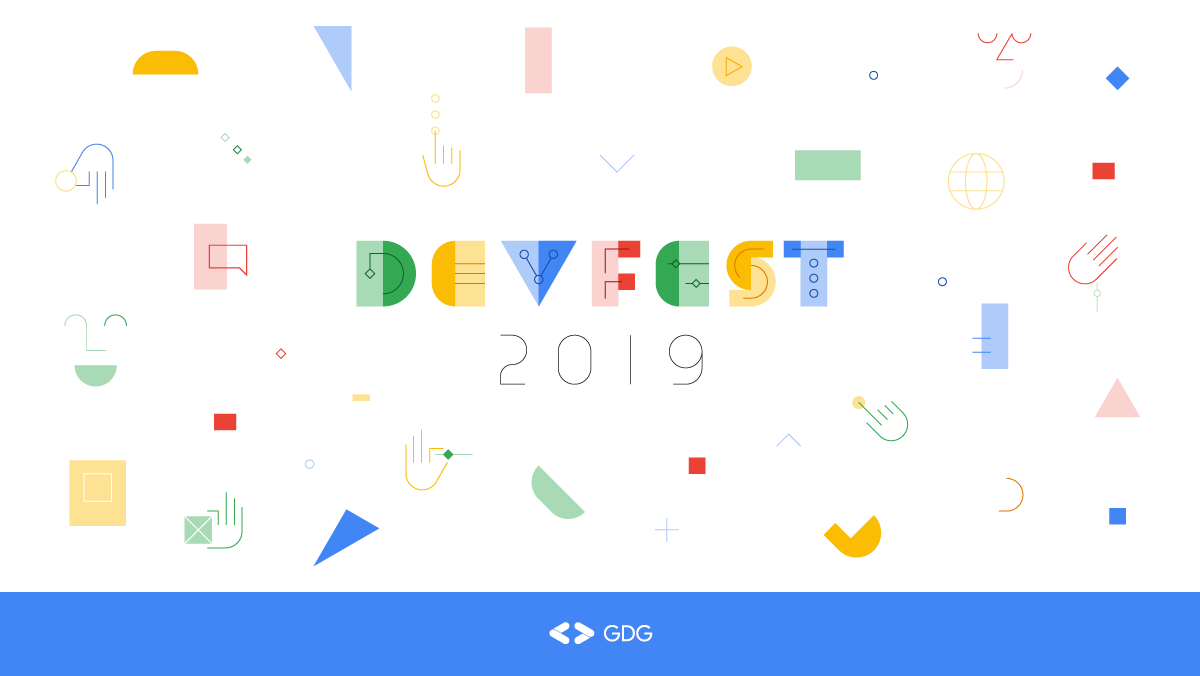
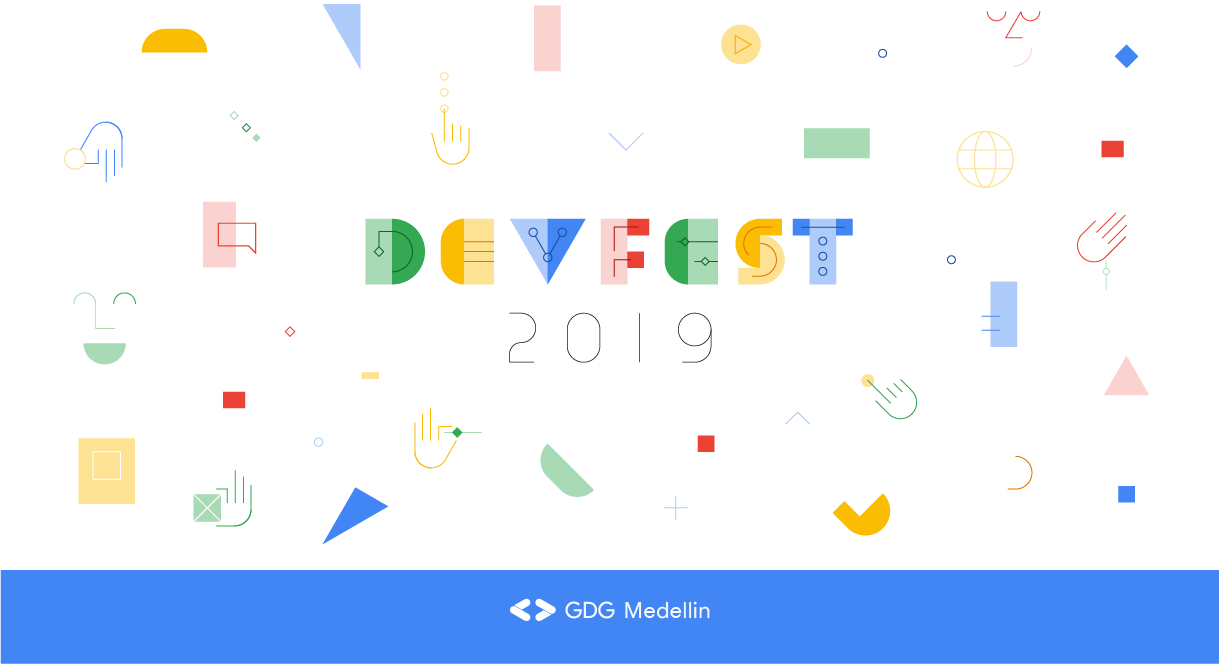
Devfeat(*) DevFest branding added

diff --git a/src/app/home/home.component.html b/src/app/home/home.component.html
@@ -1,12 +1,19 @@
 <div class="home-component">
     <app-section-topo></app-section-topo>
-    <!--
-        <call-for-proposals></call-for-proposals>
-    -->
-
+    
+    <div class="about">
+        <h1><strong>GDG DevFest 2019</strong></h1>
+        <h3>Be a Hero. Be a GDG!</h3>
+        <p>The biggest Google tech conference in Medellin carefully crafted for you by GDG community! All about Android, Angular, Web and Cloud from the world experts</p>
+        <!-- <p>GDG DevFest Medellín, brinda a la comunidad una serie de charlas y mucho networking para que aprendas sobre las últimas tecnologías de Google.</p> -->
+    </div>
+   
     <app-section-guests></app-section-guests>
-    <app-speakers></app-speakers>
-    <app-schedule></app-schedule>
+
+    <call-for-proposals></call-for-proposals>
+
+    <!-- <app-speakers></app-speakers> -->
+    <!-- <app-schedule></app-schedule> -->
 
     <app-section-mapa></app-section-mapa>
 
@@ -14,13 +21,25 @@
 
     <app-section-matriz></app-section-matriz>
 
-    <p class="poweredby">
-        Fork us:
-        <a
-            class="c-sushi"
-            href="https://github.com/carlosrojaso/angular-week"
-            target="_blank"
-            >WebApp</a
-        >
-    </p>
+    <div class="poweredby">
+        <a href="https://www.meetup.com/GDG-Medellin/" target="_blank">GDG Medellín</a>
+        <ul class="social">
+            <li>
+                <a href="https://twitter.com/gdgmed/" target="_blank" title="GDG Medellin">
+                        <img class="person-arrow" src="/assets/img/social/twitter.svg" />
+                </a>
+            </li>
+            <li>
+                <a href="https://www.instagram.com/gdgmed/" target="_blank" title="GDG Medellin">
+                    <img class="person-arrow" src="/assets/img/social/instagram.svg" />
+                </a>
+            </li>
+            <li>
+                <a href="https://www.facebook.com/gdgmedellin/" target="_blank" title="GDG Medellin">
+                    <img class="person-arrow" src="/assets/img/social/facebook.svg" />
+                </a>
+            </li>
+            
+        </ul>
+    </div>
 </div>

diff --git a/src/app/home/section-apoio/section-apoio.component.html b/src/app/home/section-apoio/section-apoio.component.html
@@ -20,6 +20,15 @@
                     ><img src="/assets/img/yuxi.png" alt="Yuxi Global"
                 /></a>
             </div>
+            <div>
+                <a
+                    class="globant-logo"
+                    href="https://www.globant.com/"
+                    target="_blank"
+                    title="Globant"
+                    ><img src="/assets/img/globant-logo.png" alt="Globant"
+                /></a>
+            </div>
         </div>
     </div>
     <div class="section-wrapper">
@@ -36,14 +45,25 @@
         <div class="section-content">
             <div class="jw-communities">
                 <a
-                    href="https://www.meetup.com/Angular-Medellin/"
+                    href="https://www.meetup.com/GDG-Medellin/"
                     target="_blank"
-                    title="Angular Medellin"
+                    title="GDGMedellin.png"
                 >
                     <img
                         class="sponsorImg"
-                        src="/assets/img/communities/angularmed.jpeg"
-                        alt="Angular Medellin"
+                        src="/assets/img/communities/GDGMedellin.png"
+                        alt="GDGMedellin.png"
+                    />
+                </a>
+                <a
+                    href="https://www.meetup.com/GDG-Medellin/"
+                    target="_blank"
+                    title="Women Techmakers"
+                >
+                    <img
+                        class="sponsorImg"
+                        src="/assets/img/communities/wtm.png"
+                        alt="Women Techmakers Medellin"
                     />
                 </a>
             </div>

diff --git a/src/index.html b/src/index.html
@@ -7,13 +7,13 @@
         <base href="/" />
 
         <meta property="og:title" content="DevFest Medellin 2019">
-        <meta property="og:description" content="A agreat event to learn and share knowledge about node.js in Medellín.">
-        <meta property="og:image" content="https://nodeweek.org/assets/img/node-week-logo.svg">
-        <meta property="og:url" content="https://nodeweek.org">
+        <meta property="og:description" content="A agreat event to learn and share knowledge about Google technologies in Medellín.">
+        <meta property="og:image" content="https://nodeweek.org/assets/img/gdg_med_logo.svg">
+        <meta property="og:url" content="https://devfestmed.dev">
 
         <meta property="twitter:title" content="DevFest Medellin 2019">
-        <meta property="twitter:description" content="A agreat event to learn and share knowledge about node.js in Medellín.">
-        <meta property="twitter:image" content="https://nodeweek.org/assets/img/node-week-logo.svg">
+        <meta property="twitter:description" content="A agreat event to learn and share knowledge about Google technologies in Medellín.">
+        <meta property="twitter:image" content="https://nodeweek.org/assets/img/gdg_med_logo.svg">
         <meta property="twitter:card" content="summary_large_image">
 
         <meta name="viewport" content="width=device-width, initial-scale=1" />
@@ -37,7 +37,7 @@
     <body>
         <app-root>
             <div class="loadapp">
-                <img src="/assets/img/lfdev-logo.png" alt="Cargando JSWeek" />
+                <img src="/assets/img/GDGMedellin.png" alt="Cargando GDG Medellin" />
             </div>
         </app-root>
     </body>

diff --git a/src/app/home/section-topo/section-topo.component.html b/src/app/home/section-topo/section-topo.component.html
@@ -25,7 +25,7 @@
                                 href="https://www.meetup.com/GDG-Medellin/events/262641229/"
                                 target="_blank"
                                 appLocalize
-                                >Register</a
+                                >Registro</a
                             >
                         </div>
                     </div>
@@ -33,7 +33,7 @@
                     <div class="main-details-conduct">
                         <a
                             class="conduct-link"
-                            href="http://jsconf.com/codeofconduct.html"
+                            href="https://developers.google.com/community/gdg/organizers/resources/#code-of-conduct"
                             target="_blank"
                             appLocalize
                             >Código de conducta</a

diff --git a/src/app/home/section-guests/section-guests.component.scss b/src/app/home/section-guests/section-guests.component.scss
@@ -27,7 +27,7 @@
   }
 
   & .guests-label {
-    color: 4285F4;
+    color: #4285F4;
     font-family: Lato;
     font-size: 2.3em;
     font-weight: 900;
@@ -108,8 +108,19 @@
       font-size: 2.4em;
       margin-bottom: 0.5em
     }
-    & .person-company {
+    & .person-title {
       font-size: 1.6em;
+    }
+    & .person-social {
+      font-size: 1.4em;
+      .social-link {
+        display: flex;
+        flex-direction: row;
+        .social-img {
+          width: 3em;
+          height: 3em;
+        }
+      }
     }
   }
 }
@@ -131,7 +142,7 @@
       width: 10px;
       transition: all .5s ;
       &--active {
-        background: 4285F4;
+        background: #4285F4;
         height: 100%;
         width: 15px;
       }

diff --git a/src/app/home/section-topo/section-topo.component.scss b/src/app/home/section-topo/section-topo.component.scss
@@ -18,7 +18,7 @@ $turtle-green: #4285F4;
         flex: 10;
         display: flex;
         background-image:
-                    linear-gradient(rgba(63, 66, 90, 0.85),  rgba(63, 66, 90, 0.85)),
+                    linear-gradient(rgba(63, 66, 90, 0.75),  rgba(63, 66, 90, 0.75)),
                     url(/assets/img/back-top.png);
         background-size: cover;
         background-repeat: no-repeat;
@@ -116,7 +116,7 @@ $turtle-green: #4285F4;
           &-conduct {
             flex: .9;
             .conduct-link {
-              color: #4285F4;
+              color: white;
               font-size: 2.8em;
               text-decoration: underline;
             }

diff --git a/src/app/home/section-matriz/section-matriz.component.html b/src/app/home/section-matriz/section-matriz.component.html
@@ -1,16 +1,15 @@
 <div
     class="jw-footer"
-    [style.background-image]="trust('../../../assets/img/img-footer.jpg')"
 >
     <h4 class="jw-footer__text" appLocalize>¡No te lo pierdas!</h4>
-    <!--
-        <a
-            class="jw-btn"
-            href="https://www.eventbrite.com/e/development-week-edicion-medellin-node-js-tickets-66575784965"
-            target="_blank"
-            appLocalize
-        >
-            Registro
-        </a>
-    -->
+    
+    <a
+        class="jw-btn"
+        href="https://www.meetup.com/GDG-Medellin/events/262641229/"
+        target="_blank"
+        appLocalize
+    >
+        Registro
+    </a>
+   
 </div>

diff --git a/src/app/home/home.component.scss b/src/app/home/home.component.scss
@@ -6,5 +6,29 @@
         color: #b8b8b8;
         font-size: 1em;
         margin: 15px 0;
+        a {
+            color: #3f425a;
+            font-size: 1.2em;
+            text-decoration: underline;
+        }
+        .social {
+            margin: 0;
+            display: flex;
+            flex-direction: row;
+            justify-content: center;
+            li {
+                align-self: flex-start;
+                margin-top: 1em;
+            }
+        }
+    }
+    .about{
+        padding: 1em;
+        text-align: center;
+        font-size: 1em;
+        color: #3f425a;
+        p {
+            font-size: 1.4em;
+        }
     }
 }

diff --git a/src/app/directives/l10n/l10n.directive.ts b/src/app/directives/l10n/l10n.directive.ts
@@ -12,14 +12,14 @@ import {
     selector: "[appLocalize]"
 })
 export class L10nDirective implements AfterViewInit, OnChanges {
-    private lang = "en";
+    private lang = "es";
     @Input() appLocalizeIf: string;
     @Input() appLocalizeValue: string;
 
     private dict = {};
 
     constructor(private element: ElementRef, private renderer: Renderer2) {
-        const lng = navigator.language.toLowerCase() || "en";
+        const lng = navigator.language.toLowerCase() || "es";
         const [lang, _] = lng.split("-");
         this.lang = this.dict[lang] ? lang : this.lang;
         if (!this.dict[lang]) {

diff --git a/src/app/home/section-guests/section-guests.component.html b/src/app/home/section-guests/section-guests.component.html
@@ -28,8 +28,11 @@
               <div class="person-name">
                 {{ guest.name }}
               </div>
-              <div class="person-company">
-                {{ guest.company }}
+              <div class="person-title">
+                {{ guest.title }}
+              </div>
+              <div class="person-social">
+                <a class="social-link" href="https://twitter.com/luixaviles" target="_blank" title="Luis Aviles"><img class="social-img" src="/assets/img/social/twitter.svg" />{{ guest.social }}</a>
               </div>
             </section>
           </div>

diff --git a/src/app/home/section-guests/section-guests.component.ts b/src/app/home/section-guests/section-guests.component.ts
@@ -18,7 +18,8 @@ export class SectionGuestsComponent implements OnInit {
                 image: 'assets/img/guests/luis-aviles.jpg',
                 talk: 'Angular AI',
                 name: 'Luis Aviles',
-                Company: 'GDE Angular',
+                title: 'GDE Angular',
+                social: '@luixaviles'
             },
         ];
         this.imageIndex = 0;

diff --git a/src/app/home/section-matriz/section-matriz.component.scss b/src/app/home/section-matriz/section-matriz.component.scss
@@ -3,6 +3,7 @@
 .jw-footer {
     height: 305px;
     background-size: cover;
+    background-image: linear-gradient(rgba(63, 66, 90, 0.75), rgba(63, 66, 90, 0.75)), url(/assets/img/back-top.png);
     display: flex;
     flex-direction: column;
     align-items: center;
